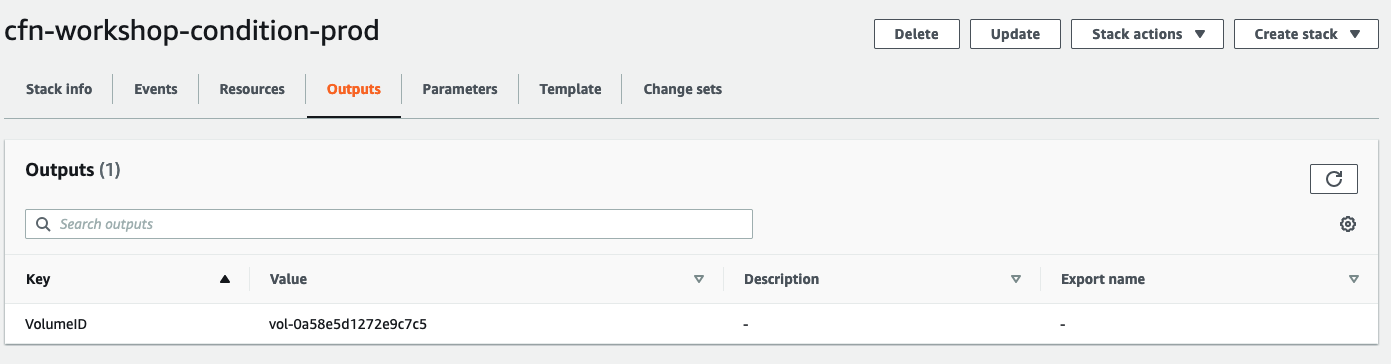
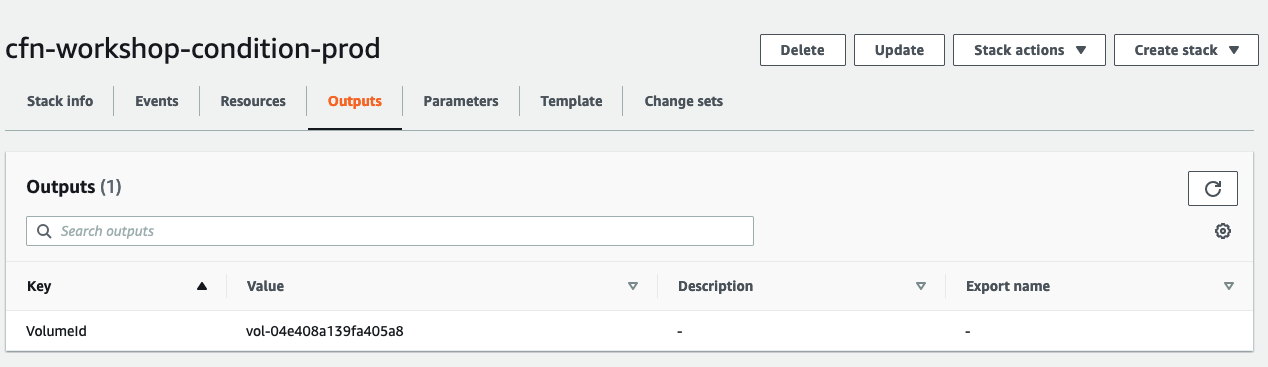
Fix cfn-nag error and changed the screenshot

diff --git a/workshop/content/intermediate/templates/conditions/_index.md b/workshop/content/intermediate/templates/conditions/_index.md
@@ -98,6 +98,7 @@ Resources:
     Properties:
       Size: 2
       AvailabilityZone: !GetAtt EC2Instance.AvailabilityZone
+      Encrypted: true
 ```
 
 Let’s deploy the solution!
